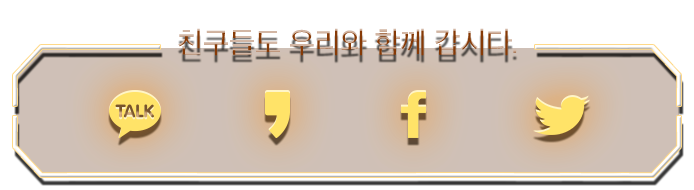
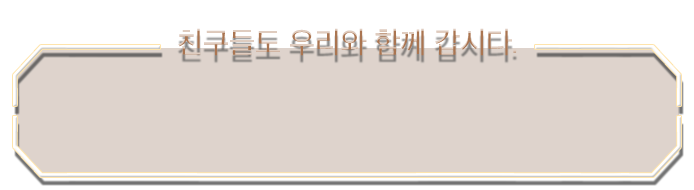
수정

diff --git a/assets/css/event.css b/assets/css/event.css
@@ -1,114 +1,185 @@
-/* reset */
+/* reset & common */
 *{margin:0;padding:0;border:0;box-sizing:border-box}
 section,article,main,aside{display:block}
-body,html{width:100%;height:100%;min-width:320px;max-width:750px;margin: 0 auto}
+body,html{width:100%;height:100%;min-width:320px;}
 img{ max-width: 100%;image-rendering: auto;}
 ol,ul,li{list-style:none}
 button,label,a,.btn{cursor: pointer;}
 .btn{display:inline-block;vertical-align:middle}
 .hidden{position:absolute;top:-9999em;left:-9999em;width:1px;height:1px;overflow:hidden;visibility:hidden;opacity:0}
-
-.event_container{position:relative;width:100%;height:100%;background:#281a11}
-
+/* event style */
+.event_container{position:relative;width:100%;max-width:750px;background:#281a11;margin:0 auto}
 .event_container .bg{position:fixed;top:0;left:50%;max-width:750px;width:100%;height:100%;background:url(../images/bg.jpg) no-repeat 0 0/100%;transform:translate(-50%,0);z-index:0}
 .event_container .event_header,
 .event_container .event_body{position:relative;z-index:1}
-.event_container .event_header{display:flex;width:100%;height:0;padding-top:9.3%;background:rgba(0,0,0,.5);border-bottom:1px solid #654835;justify-content:center;align-items: center;}
+.event_container .event_header{display:flex;width:100%;height:0;padding-top:9.3%;background:rgba(0,0,0,.5);border-bottom:1px solid #654835;justify-content:center;align-items: center;z-index:10}
 .event_container .event_header >*{position:absolute;}
 .event_container .event_header .logo {top:50%;left:3.33%;width:14.66%;transform: translate(0,-50%);}
 .event_container .event_header .logo a{display:block;width:100%;padding-top:20%;height:0;overflow:hidden;;background:url(../images/top_logo.png) no-repeat  0 0/contain}
 .event_container .event_header .title {top:50%;left:50%;transform: translate(-50%,-50%);width:23.4%;padding-top:2.93%;height:0;overflow:hidden;background:url(../images/top_title.png) no-repeat  0 0/contain}
 .event_container .event_header .concept {top:0;right:0;width:29.86%;padding-top:20.66%;height:0;overflow:hidden;background:url(../images/top_concept.png) no-repeat  0 0/contain}
+
 .event_container .event_body::after{display:block;margin:6% 0 0;width:100%;padding-top:24.53%;height:0;background:url(../images/bg_gold.png) no-repeat 0 0/100%;content:''}
 .event_container .event_body .txt-title{position:relative;margin-top:-5.6%;display:flex;margin-left:7.6%;width:84.8%;padding-top:13%;flex-flow:row wrap;align-items: center;justify-content: center;}
-.event_container .event_body .txt-title .fire{position:absolute;top:0;left:9.2%;width:25.1%;padding-top:25%;height:0;overflow:hidden;background:url(../images/fire.png) no-repeat 0 0 /contain}
+.event_container .event_body .txt-title .fire{position:absolute;top:0;left:9.2%;width:25.1%}
+.event_container .event_body .txt-title .fire > span{display:block;position:relative;width:100%;padding-top:99.37%;height:0;overflow:hidden}
+.event_container .event_body .txt-title .fire > span span{display:block;position:absolute;top:0;left:0;width:100%;height:100%;background-size:contain;background-repeat:no-repeat;background-position:0 0}
+.event_container .event_body .txt-title .fire > span span:nth-child(1){background-image:url(../images/fire1.png)}
+.event_container .event_body .txt-title .fire > span span:nth-child(2){background-image:url(../images/fire2.png)}
+.event_container .event_body .txt-title .fire > span span:nth-child(3){background-image:url(../images/fire3.png)}
 .event_container .event_body .txt-title p{position:relative;height:0;overflow:hidden}
 .event_container .event_body .txt-title .dropthe{margin-left:-7%;width:57.2%;padding-top:22.4%;background:url(../images/txt-drop.png) no-repeat 0 0 /contain;z-index:5}
 .event_container .event_body .txt-title .money{margin:-21% 0 0 -3%;width:84.8%;padding-top:44%;background:url(../images/txt-money.png) no-repeat 0 0 /contain;z-index:0}
 .event_container .event_body .txt-title .light{position:absolute;top:0;left:0;display:block;width:100%;height:100%}
-.event_container .event_body .txt-title .dropthe .light{background:url(../images/txt-effect-drop.png) no-repeat 0 0 /contain;opacity:5}
+.event_container .event_body .txt-title .dropthe .light{opacity:.6;background:url(../images/txt-effect-drop.png) no-repeat 0 0 /contain;opacity:5}
 .event_container .event_body .txt-title .money .light{background:url(../images/txt-effect-money.png) no-repeat 0 0 /contain;opacity:5}
+.event_container .event_body .txt-title .money .light span{position:absolute;top:0;left:0;display:block;width:100%;height:100%}
+.event_container .event_body .txt-title .money .light span:nth-child(1){opacity:.3;background:url(../images/txt-effect-money.png) no-repeat 0 0 /contain}
+.event_container .event_body .txt-title .money .light span:nth-child(2){opacity:.6;background:url(../images/txt-effect-money2.png) no-repeat 0 0 /contain}
 .event_container .event_body .txt-title .txt-box {margin:-16% 0 0 -3%;width:61.46%;padding-top:18.87%;height:0;overflow:hidden;background:url(../images/txt-info.png) no-repeat 0 0 /contain}
-
 .event_container .event_body .money-box{position:relative;display:flex;width:100%;align-items:flex-start;justify-content: center;margin-top:-3%;padding-top:34.5%}
 .event_container .event_body .money-box img{position:relative;z-index:2}
 .event_container .event_body .money-box .left-hand,
-.event_container .event_body .money-box .right-hand{width:13.2%}
+.event_container .event_body .money-box .right-hand{width:13.2%;z-index:10}
 .event_container .event_body .money-box .left-hand{margin-top:4%}
-.event_container .event_body .money-box img.money {
-    position:absolute;top:0;left:50%;width:81.2%;z-index:0;
-    animation: moveTo .6s infinite  cubic-bezier(.3, .8, .8, .4);
-}
-.event_container .event_body .money-box .text {
-    width: 31.4%;
-    animation: scaleTo .5s infinite  cubic-bezier(.3, .8, .8, .4);
-}
-.event_container .event_body .money-box .left-hand {animation: leftSide .5s infinite  cubic-bezier(.3, .8, .8, .4);}
-.event_container .event_body .money-box .right-hand {animation: rightSide .5s infinite  cubic-bezier(.3, .8, .8, .4);}
-
-.event_container .event_body .txt-info {margin:0 auto;width:74%;padding-top:42.88%;height:0;overflow:hidden;background:url(../images/txt-info2.png) no-repeat 0 0 /contain}
-.event_container .event_body .sns{margin:8% auto;display:flex;flex-flow:row wrap;width:100%;padding:8.93% 14% 4.53%;overflow:hidden;background:url(../images/sns_off.png) no-repeat top center /92.52% auto}
+.event_container .event_body .money-box img.money { position:absolute;top:0;left:50%;width:81.2%;z-index:0;}
+.event_container .event_body .money-box .text {width: 31.4%;}
+.event_container .event_body .txt-info {margin:6.4% auto 0;width:74%;padding-top:42.88%;height:0;overflow:hidden;background:url(../images/txt-info2.png) no-repeat 0 0 /contain}
+.event_container .event_body .snsBox{position:relative;margin:-2% auto 0}
+.event_container .event_body .snsBox h4{opacity:.5;position:absolute;top:0;left:0;width:100%;height:0;padding-top:25.33%;overflow:hidden;background:url(../images/sns_off.png) no-repeat top center /92.52% auto}
+.event_container .event_body .sns{display:flex;flex-flow:row wrap;width:100%;padding:8.93% 14% 4.53%;overflow:hidden;background:url(../images/sns_btn.png) no-repeat top center /92.52% auto}
 .event_container .event_body .sns li{position:relative;width:25%;height:0;padding-top:16.48%}
 .event_container .event_body .sns li .btn{position:absolute;top:0;left:0;width:100%;height:0;padding-top:65.9%;overflow:hidden;background:transparent}
-.event_container .event_body .btn-apply{position:sticky;bottom:0;left:2.2%;width:97.86%;padding-top:19.6%;height:0;overflow:hidden;background:url(../images/btn-apply.png) no-repeat 0 0 /contain;z-index:10}
-
+.event_container .event_body .btn-apply{position:fixed;bottom:0;left:50% ;width:97.86%;transform:translate(-48.8%,0);max-width:750px;padding-top:19.6%;height:0;overflow:hidden;background:url(../images/btn-apply.png) no-repeat 0 0 /contain;z-index:10}
+.event_container .event_body .coinBox{position:absolute;top:23vmin;left:0;width:100%;height:70vmin;}
+.event_container .event_body .coinBox > div{position:relative;width:100%;height:100%}
+.event_container .event_body .coinBox .coin{display:block;position:absolute;height:0;overflow:hidden;background-size:contain;background-repeat:no-repeat;background-position:0 0;transform: translate3d(0,0,0);transition:all .3s ease-in-out;}
+.event_container .event_body .coinBox .coin-left1{top:0;left:0;width:12.8%;padding-top:33.73%;background-image:url(../images/coin_left_1.png)}
+.event_container .event_body .coinBox .coin-left2{top:40.67%;left:16.93%;width:10.4%;padding-top:14.1%;background-image:url(../images/coin_left_2.png)}
+.event_container .event_body .coinBox .coin-left3{bottom:16.77%;left:0;width:5.86%;padding-top:14.93%;background-image:url(../images/coin_left_3.png)}
+.event_container .event_body .coinBox .coin-right1{top:18.47%;right:2.266%;width:16%;padding-top:21.3%;background-image:url(../images/coin_right_1.png);z-index:5}
+.event_container .event_body .coinBox .coin-right2{top:34.3%;right:9.73%;width:8.66%;padding-top:13.86%;background-image:url(../images/coin_right_2.png);z-index:1}
+.event_container .event_body .coinBox .coin-right3{right:0;bottom:0;width:15.2%;padding-top:24.93%;background-image:url(../images/coin_right_3.png)}
+.event_container .event_body .coinBox.once {top:0;left:0;width:100%;height:100%;}
+.event_container .event_body .coinBox.once .coin01{width:10%;padding-top:10.4%;background-image:url(../images/coin_init.png);}
+.event_container .event_body .coinBox.once .coin02{width:17.3%;padding-top:16.13%;background-image:url(../images/coin_init2.png)}
+.event_container .event_body .coinBox.once .coin-right1{top:50%;left:50%;transform: scale(2)}
+.event_container .event_body .coinBox.once .coin-right2{top:60%;left:50%;transform: scale(2)}
+.event_container .event_body .coinBox.once .coin.big{bottom:0;left:50%;transform: scale(8)}
+.event_container .event_body .coinBox.once .coin.big2{top:0;left:50%;transform: scale(6);}
+/* event popup */
 .open {overflow:hidden}
 .open .popup{display:block;overflow-y:auto}
-.popup{display:none;position:fixed;top:0;left:0;width:100%;height:100%;z-index:20;background:#885121}
+.popup{display:none;position:fixed;top:0;left:0;width:100%;height:100%;z-index:20}
 .popup .popup-inner{position:relative;width:100%;height:100%;max-width:750px;margin:0 auto}
 .popup .popup-inner .btn{position:absolute;height:0;overflow:hidden;background:transparent}
 .popup .popup-inner .btn-pop-close{top:8%;right:5.86%;width:7.6%;padding-top:7.86%;background:url(../images/btn-close.png) no-repeat 0 0/contain}
 .popup .popup-inner .upperSide,
-.popup .popup-inner .underSide {position:relative;width:100%;height:50vh}
+.popup .popup-inner .underSide {position:relative;width:100%;height:50vh;transition:all 1s ease-in}
 .popup .popup-inner .upperSide{background:url(../images/bg_upperSide.png) no-repeat 0 bottom /100% }
 .popup .popup-inner .underSide{background:url(../images/bg_underSide.png) no-repeat 0 top /100%}
 .popup .popup-inner .btn-coupon{top:7.98vmin;right:13.33%;width:15%;padding-top:6.4%}
 .popup .popup-inner .btn-update{top:37.76vmin;right:18.4%;width:20.66%;padding-top:6.13%}
 .popup .popup-inner .text{width:100%;padding-top:54.13%;height:0;overflow:hidden}
 .popup .popup-inner .btn.btn-send{position:sticky;bottom:0;left:2.2%;width:97.86%;padding-top:19.6%;height:0;overflow:hidden;background:url(../images/btn-send.png) no-repeat 0 0 /contain;z-index:10}
+/* animation */
+.event_container .event_body .money-box img.money{animation:moveTo .6s infinite ease-in-out}
+.event_container .event_body .money-box .text{animation:scaleTo .6s infinite ease-in-out}
+.event_container .event_body .money-box .left-hand { transform: rotate(0);transform-origin:left bottom;animation: leftSide .6s infinite  ease-in-out}
+.event_container .event_body .money-box .right-hand {transform: rotate(0);transform-origin:right bottom;animation: rightSide .6s infinite  ease-in-out;}
 
+.init .coinBox.second{animation: coinBox2 .5s ease-out .1s;animation-fill-mode: both}
+.init .coinBox.once{animation: coinBox .3s ease-out ;animation-fill-mode: both}
+.init .coinBox.second .coin-left3 {animation: coins .5s  ease-out .5s ;animation-fill-mode: backwards}
+.init .coinBox.second .coin-right3 {animation: coins .5s  ease-out .5s ;animation-fill-mode: backwards}
+
+.init .txt-title .fire > span span:nth-child(1){opacity:0;transform-origin:right bottom;animation: showFire .2s ease-out .6s;animation-fill-mode: both}
+.init .txt-title .fire > span span:nth-child(2){opacity:0;transform-origin:right bottom;animation: showFire .2s ease-out .7s;animation-fill-mode: both}
+.init .txt-title .fire > span span:nth-child(3){opacity:0;transform-origin:right bottom;animation: showFire .5s ease-out .7s, showFire2 .3s ease-out .5s;animation-fill-mode: both}
+
+.init .txt-title .dropthe .light{animation: lightcontrol .8s ease-in-out 2.3s;animation-fill-mode: both}
+.init .txt-title .money .light span:nth-child(1){animation: lightcontrol2 1s ease-in-out 3.3s;animation-fill-mode: both}
+.init .txt-title .money .light span:nth-child(2){animation: lightcontrol .5s ease-in-out 1.3s;animation-fill-mode: both}
+
+.event_container .event_body .snsBox.on h4{animation: turnon 1s ease-in-out;animation-fill-mode: both}
+
+.popup .popup-inner .upperSide{transform:translate(0,-100%)}
+.popup.play .popup-inner .upperSide{transform:translate(0,0);animation: bounce .5s ease-in-out 1s;}
+
+.popup .popup-inner .underSide{transform:translate(0,100%)}
+.popup.play .popup-inner .underSide{transform:translate(0,0);animation: bounce2 .5s ease-in-out 1s;}
+
+/* keyframes */
+@keyframes bounce{
+    0%{transform:translate(0,0)}
+    20%{transform:translate(0,-10px)}
+    60%{transform:translate(0,0)}
+    80%{transform:translate(0,-5px)}
+    100%{transform:translate(0,0)}
+}
+@keyframes bounce2{
+    0%{transform:translate(0,0)}
+    20%{transform:translate(0,10px)}
+    60%{transform:translate(0,0)}
+    80%{transform:translate(0,5px)}
+    100%{transform:translate(0,0)}
+}
+@keyframes turnon{
+    0%{opacity:.5;background-image:url(../images/sns_off.png)}
+    25%{opacity:1;background-image:url(../images/sns_on.png)}
+    75%{opacity:.5;background-image:url(../images/sns_off.png)}
+    100%{opacity:1;background-image:url(../images/sns_on.png)}
+}
+@keyframes coinBox{
+    0%{width:100%;opacity:1;height:100%;transform: translate(0,-100%)}
+    99%{width:100%;opacity:1;height:100%;transform:translate(0,130%)}
+    100%{width:0;opacity:0;height:0;z-index:-1;}
+}
+@keyframes coins{
+    0%{transform:translate(0,-20px)}
+    100%{transform:translate(0,0)}
+}
+@keyframes coinBox2{
+    0%{transform: translate(0,-100%)}
+    100%{transform:translate(0,0)}
+}
+@keyframes lightcontrol{
+    0%{opacity:.6;}
+    25%{opacity:1;}
+    75%{opacity:.6;}
+    100%{opacity:1;}
+}
+@keyframes lightcontrol2{
+    0%{opacity:.3;}
+    25%{opacity:.8;}
+    75%{opacity:.3;}
+    100%{opacity:.8;}
+}
+@keyframes showFire{
+    0%{opacity:0;transform:scale(.8);}
+    100%{opacity:1;transform:scale(1)}
+}
+@keyframes showFire2{
+    0%{transform:translate(0,20px)}
+    100%{transform:translate(0,0)}
+}
 @keyframes moveTo{
-    0%{
-        transform: translate(-50%,0);
-    }
-    20% {
-        transform: translate(-50%,5px);
-    }
-   
-    100%{
-        transform: translate(-50%,0);
-    }
+    0%{transform:translate(-50%,0)}
+    80%{transform:translate(-50%,5px)}
+    100%{transform:translate(-50%,0)}
 }
 @keyframes scaleTo{
-    0%{
-        transform: scale(.8);
-    }
-    50% {
-        transform: scale(1);
-    }
-    100%{
-        transform: scale(.8);
-    }
+    0%{transform:scale(1)}
+    20%{transform:scale(1.1)}
+    100%{transform:scale(1)}
 }
 @keyframes leftSide{
-    0%{
-        transform: rotate(0)
-    }
-    50% {
-        transform: rotate(-45deg);
-    }
-    100%{
-        transform: rotate(0);
-    }
+    0%{transform:rotate(0)}
+    20%{transform:rotate(-20deg)}
+    100%{transform:rotate(0)}
 }
 @keyframes rightSide{
-    0%{
-        transform: rotate(0);
-    }
-    50% {
-        transform: rotate(45deg);
-    }
-    100%{
-        transform: rotate(0);
-    }
+    0%{transform:rotate(0)}
+    20%{transform:rotate(20deg)}
+    100%{transform:rotate(0)}
 }

diff --git a/index.html b/index.html
@@ -10,7 +10,7 @@
     <link rel="stylesheet" href="./assets/css/event.css">
     <script src="./assets/js/event.js"></script>
 </head>
-<body class="">
+<body>
     <section class="event_container">
         <div class="bg"></div>
         <div class="event_header">
@@ -20,8 +20,8 @@
         </div><!--// event_header -->
         <main class="event_body">
             <div class="txt-title">
-                <span class="fire"></span>
-                <p class="dropthe">Drop the <span class="light"></span></p><p class="money">money <span class="light"></span></p>
+                <div class="fire"><span><span></span><span></span><span></span></span></div>
+                <p class="dropthe">Drop the <span class="light"></span></p><p class="money">money <span class="light"><span></span><span></span></span></p>
                 <p class="txt-box">송금만 해도 현금이 쏟아진다! </p>
             </div>
             <div class="money-box">
@@ -34,14 +34,34 @@
                 1주차 6.30 ~ 7.6 추첨을 통해 카카오머니를 드립니다.
                 백만원 : 1명, 1만원 : 100명, 1천원: 1천명, 붸액원 : 15만명
             </p>
-            <h4 class="hidden">친구들도 우리와 함께 갑시다.</h4>
-            <ul class="sns">
-                <li><button class="btn" type="button" title="카카오톡으로 공유하기">카카오톡으로 공유하기</button></li>
-                <li><button class="btn" type="button" title="카카오스토리로 공유하기">카카오스토리로 공유하기</button></li>
-                <li><button class="btn" type="button" title="페이스북으로 공유하기">페이스북으로 공유하기</button></li>
-                <li><button class="btn" type="button" title="트위터로 공유하기">트위터로 공유하기</button></li>
-            </ul>
-            <button class="btn btn-apply" type="button" title="참여하기">참여하기</button>
+            <div class="snsBox">
+                <h4>친구들도 우리와 함께 갑시다.</h4>
+                <ul class="sns">
+                    <li><button class="btn" type="button" title="카카오톡으로 공유하기">카카오톡으로 공유하기</button></li>
+                    <li><button class="btn" type="button" title="카카오스토리로 공유하기">카카오스토리로 공유하기</button></li>
+                    <li><button class="btn" type="button" title="페이스북으로 공유하기">페이스북으로 공유하기</button></li>
+                    <li><button class="btn" type="button" title="트위터로 공유하기">트위터로 공유하기</button></li>
+                </ul>
+            </div>
+            <div class="coinBox second">
+               <div>
+                    <span class="coin coin-left1 coin-delay"></span> 
+                    <span class="coin coin-left2 coin-delay"></span> 
+                    <span class="coin coin-left3 coin-delay2"></span> 
+                    <span class="coin coin-right1 coin-delay"></span> 
+                    <span class="coin coin-right2 coin-delay"></span> 
+                    <span class="coin coin-right3 coin-delay2"></span> 
+               </div>
+            </div>
+            <div class="coinBox once">
+                <div>
+                     <span class="coin coin01 big"></span> 
+                     <span class="coin coin02 big2"></span> 
+                     <span class="coin coin-right1"></span> 
+                     <span class="coin coin-right2"></span> 
+                </div>
+             </div>
+            <button class="btn btn-apply" type="button" title="참여하기" onclick="openPopup();">참여하기</button>
         </main><!--// event_body -->
         <div class="popup">
             <div class="popup-inner">
@@ -59,7 +79,7 @@
                     <button class="btn btn-update" type="button" title="카톡 업데이트">카톡 업데이트</button>
                     <button class="btn btn-send" type="button" title="송금하기">송금하기</button>
                 </div>
-                <button class="btn btn-pop-close" type="button" title="팝업 닫기">팝업 닫기</button>
+                <button class="btn btn-pop-close" type="button" title="팝업 닫기" onclick="closePopup();">팝업 닫기</button>
             </div>
         </div>
     </section>

diff --git a/assets/js/event.js b/assets/js/event.js
@@ -1,0 +1,66 @@
+/*
+    date : 2021.03.12
+    writer: Suyoung Park
+    browser support: ie10+, firefox, opera, chrome
+    syntax : ES5 / vanilla 
+*/
+var eventjs = (function () {
+    var count = 0,
+    yOffset = 0,
+    _yOffset = 0,
+    sign,sign2,
+    obj = [
+        {
+            container : document.querySelector('.snsBox')
+        }
+    ];
+    window.addEventListener('beforeunload', function () {
+        window.scrollTo(0, 0); //새로고침 시 상단부터 시작
+    });
+    window.addEventListener('load', function () {
+        window.scrollTo(0, 0); //새로고침 시 상단부터 시작
+        document.body.classList.add('init');
+    });
+    window.addEventListener('scroll', scrollEvent);
+ 
+    function scrollEvent(e) {
+        yOffset = pageYOffset;
+        var _direction = (yOffset - _yOffset) >= 0 ? 'down' : 'up';
+        _yOffset = yOffset;
+        if(_direction == 'down'){
+            count++;
+            if(count > 50) count = 50;
+            sign = "-"+(count*0.4);
+            sign2 = "-"+(count*0.8);
+            document.querySelector('.snsBox').classList.add('on');
+        }else{
+            count--;
+            if(count < 0) count = 0;
+            sign = "+"+(count*0.4);
+            sign2 = "+"+(count*0.8);
+        }
+        var arr = document.body.querySelectorAll('.coin-delay');
+        var arr2 = document.body.querySelectorAll('.coin-delay2');
+        for(var i=0;i<arr.length;i++){
+            arr[i].style.transform="translate(0,"+sign+"px)";
+        }
+        for(var i=0;i<arr2.length;i++){
+            arr2[i].style.animationFillMode = "none"; 
+            arr2[i].style.transform="translate(0,"+sign2+"px)";
+        }
+    }
+    
+})();
+
+function openPopup(){
+    document.body.classList.add('open');
+    setTimeout(function(){
+        document.querySelector('.popup').classList.add('play');
+    },300);
+}
+function closePopup(){
+    document.querySelector('.popup').classList.remove('play');
+    setTimeout(function(){
+        document.body.classList.remove('open');
+    },300);
+}
